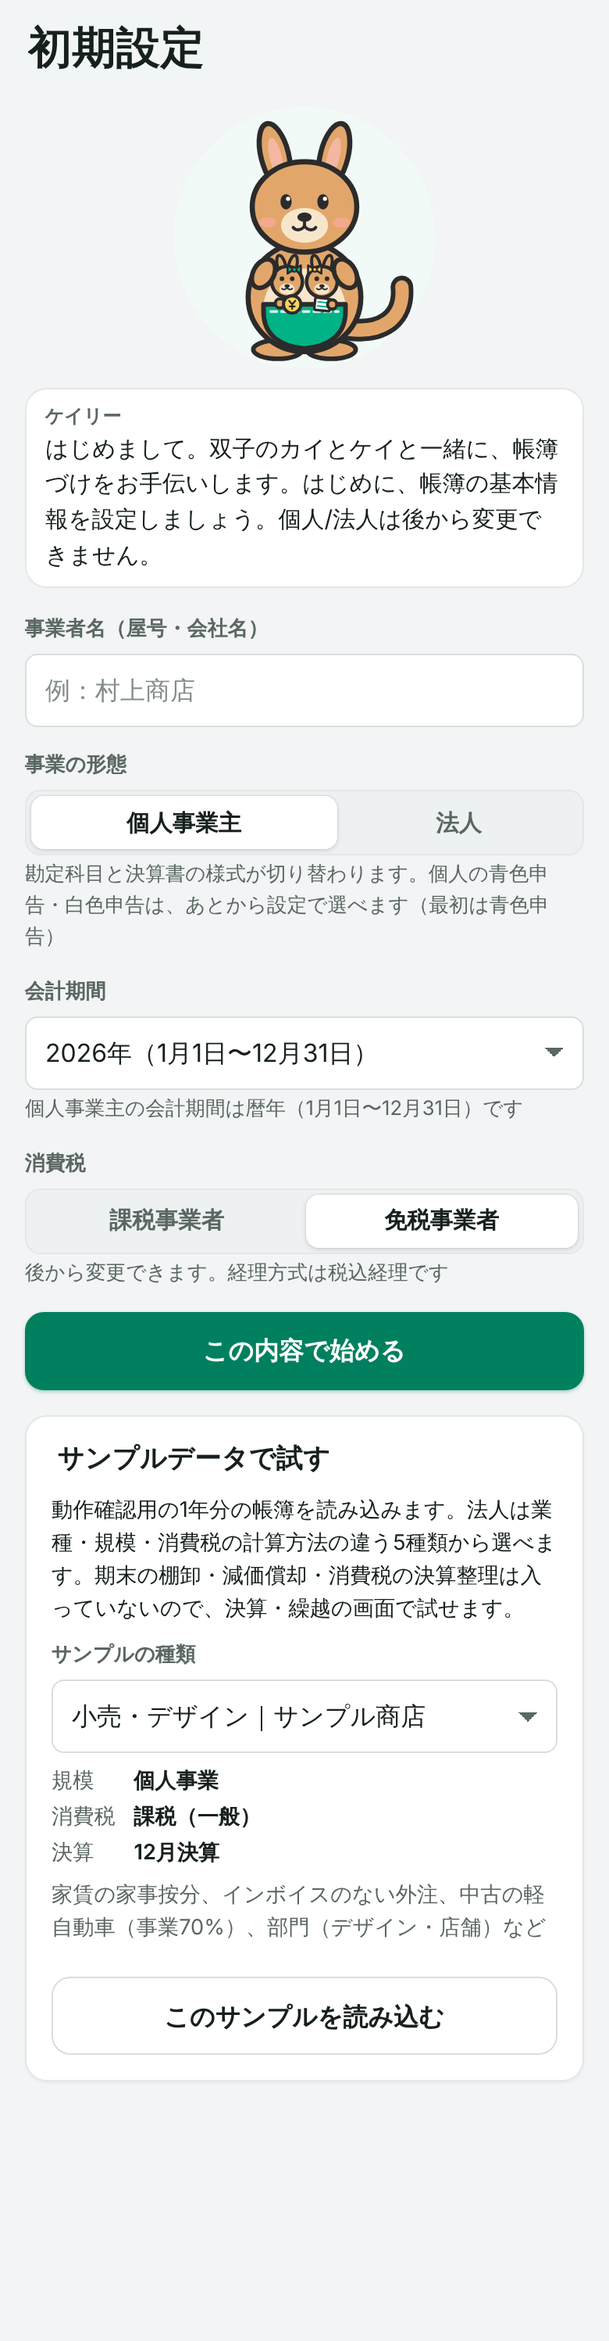
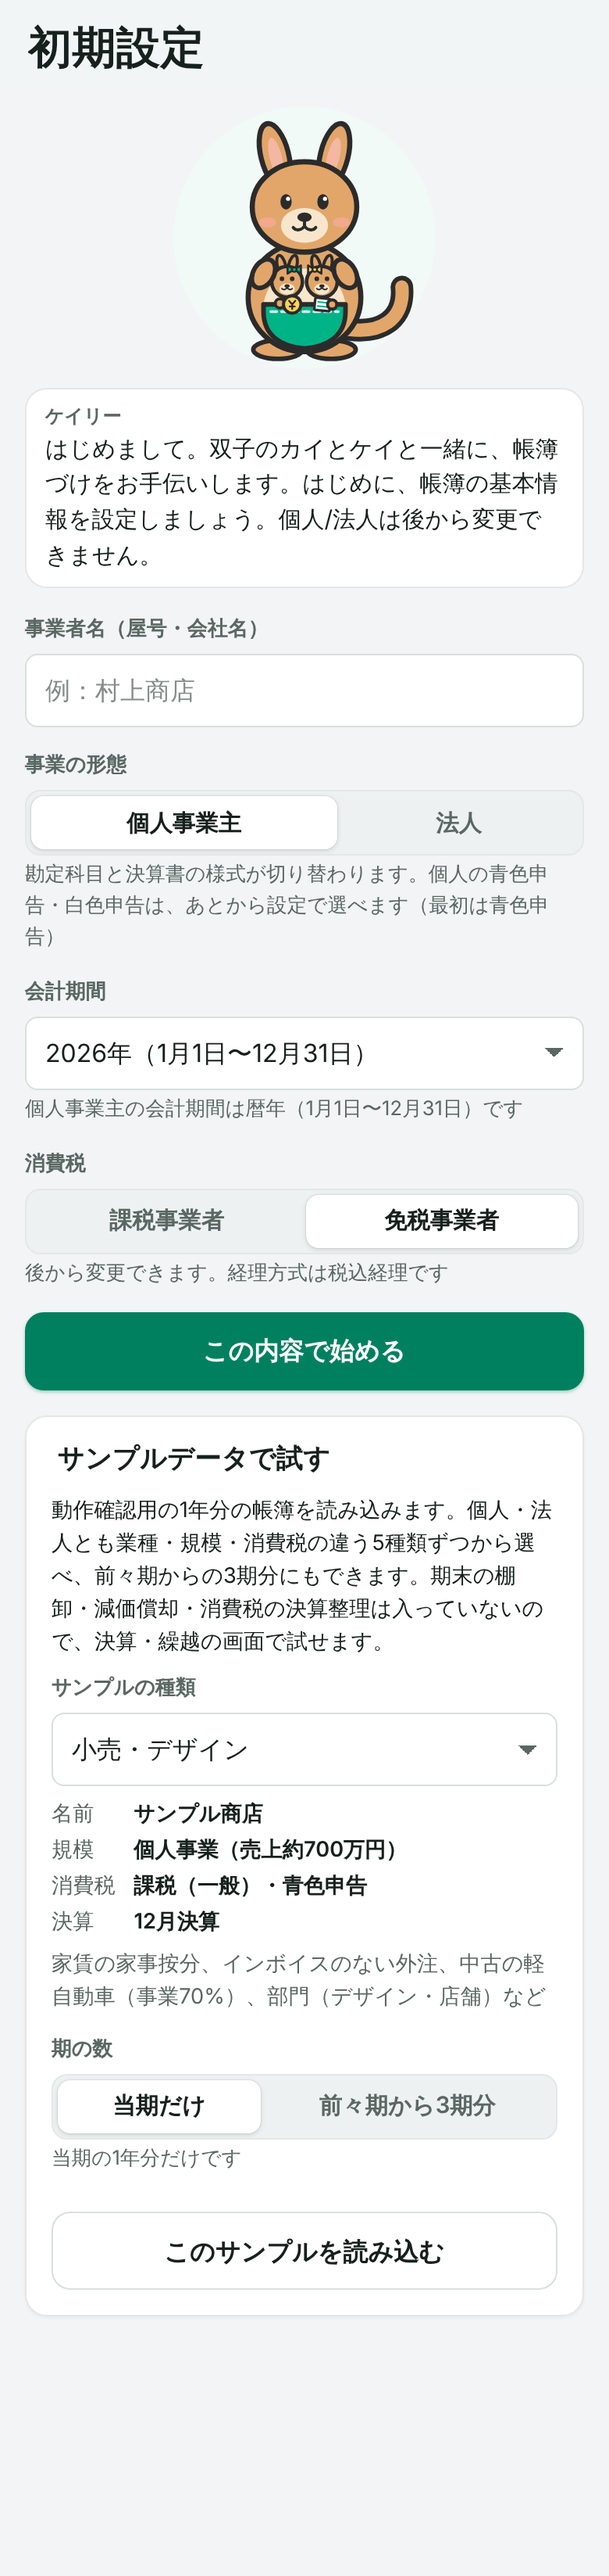
サンプルの説明文を3期分に合わせる、撮影スクリプトで3期分の繰越・BSを確認
Claude-Session: https://claude.ai/code/session_01S9p1vXW3axYqQYSwEwLNuR

diff --git a/js/views/sample-load.js b/js/views/sample-load.js
@@ -80,7 +80,7 @@ export function samplePanel({ app, journals = 0, replaceNote = false }) {
     'div',
     { class: 'panel sample-panel' },
     h('h2', { class: 'section-title', text: 'サンプルデータで試す' }),
-    h('p', { class: 'small', text: `動作確認用の1年分の帳簿を読み込みます。個人・法人とも業種・規模・消費税の違う5種類ずつから選べ、前々期からの3期分にもできます。${replaceNote ? '今開いている事業所を置き換えるので、今のデータを残したまま試すなら「事業所の切替」からサンプルの事業所を作ってください。' : ''}期末の棚卸・減価償却・消費税の決算整理は入っていないので、決算・繰越の画面で試せます。` }),
+    h('p', { class: 'small', text: `動作確認用の帳簿を読み込みます。個人・法人とも業種・規模・消費税の違う5種類ずつから選べ、前々期からの3期分にもできます。${replaceNote ? '今開いている事業所を置き換えるので、今のデータを残したまま試すなら「事業所の切替」からサンプルの事業所を作ってください。' : ''}当期の期末の棚卸・減価償却・消費税の決算整理は入っていないので、決算・繰越の画面で試せます。` }),
     sampleChooser({ onPick: load, buttonLabel: 'このサンプルを読み込む' }),
   );
 }

diff --git a/js/views/books.js b/js/views/books.js
@@ -125,7 +125,7 @@ export async function render({ app, outlet }) {
       h('button', { type: 'button', class: 'btn btn-block', text: 'バックアップから作る', onclick: () => file.click() }),
       h('p', { class: 'muted small', text: 'ほかの端末や会社のバックアップファイルを、新しい事業所として取り込みます。今の事業所を置き換えたいときは「バックアップ」の画面の復元を使います。' }),
       h('h3', { class: 'section-title', text: 'サンプルの事業所を作る' }),
-      h('p', { class: 'muted small', text: '操作を試すための1年分のデータを、新しい事業所として作ります。個人・法人とも業種・規模・消費税の違う5種類ずつから選べ、前々期からの3期分にもできます。' }),
+      h('p', { class: 'muted small', text: '操作を試すためのデータを、新しい事業所として作ります。個人・法人とも業種・規模・消費税の違う5種類ずつから選べ、前々期からの3期分にもできます。' }),
       sampleChooser({ onPick: addSample, buttonLabel: 'このサンプルで事業所を作る' }),
       file,
     ),
